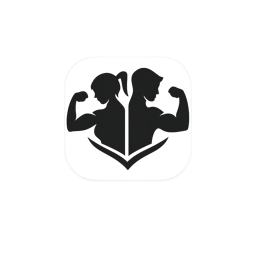
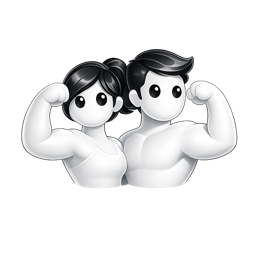
Fit the FAB scale to the new duo artwork and compress it
The replacement mark is a 1.55:1 landscape composition (measured content
866x560, filling 85% of the canvas width), where the previous one was
near-square and filled about half. At the inherited 1.3 scale it rendered
~64pt wide inside a 58pt circle, so the circular clip would have cut off
both figures' outer arms. 0.9 lands it ~44pt wide with margin.

I tried deriving this from the asset instead of hardcoding it, but
`resolveAssetSource` reports the canvas (1024² for both marks), not the
opaque content — the thing that actually differs. The constant now says so,
along with the measurements, so the next swap has something to re-measure
against rather than a bare number.

Also compresses the artwork 1.5MB -> 48KB; it renders at 58pt and was
shipping at 1024².

Not yet verified on screen: screencap is returning black frames on this
device, so the fit is calculated rather than seen.

Changed region(s): [[0.0625, 0.1875, 0.9375, 0.75], [0.875, 0.375, 0.9062, 0.4375], [0.8438, 0.3438, 0.875, 0.375]]

diff --git a/app/(tabs)/_layout.tsx b/app/(tabs)/_layout.tsx
@@ -207,27 +207,33 @@ function MuscleIcon({ size = 26, color = '#ffffff' }: { size?: number; color?: s
 /**
  * The FAB's flex mark — the illustrated `fabicon` asset.
  *
- * The artwork is a transparent-backed bicep centred in a 1024² canvas with
- * roughly a quarter of each edge as empty padding, so it is rendered larger
- * than the nominal icon box to make the arm itself read at FAB size. Falling
- * back to the vector `MuscleIcon` if the asset ever fails to resolve keeps a
- * broken/renamed file from leaving an empty FAB.
+ * Falling back to the vector `MuscleIcon` if the asset ever fails to resolve
+ * keeps a broken or renamed file from leaving an empty FAB.
  */
 const FLEX_ASSET = require('../../assets/fabicon.png') as number;
-const FLEX_ASSET_IS_REAL = (() => {
-  const meta = RNImage.resolveAssetSource(FLEX_ASSET);
-  return (meta?.width ?? 0) > 8 && (meta?.height ?? 0) > 8;
-})();
+const FLEX_ASSET_META = RNImage.resolveAssetSource(FLEX_ASSET);
+const FLEX_ASSET_IS_REAL =
+  (FLEX_ASSET_META?.width ?? 0) > 8 && (FLEX_ASSET_META?.height ?? 0) > 8;
 
 /**
- * The arm occupies only ~52% of its 1024² canvas (measured: 482×534 of
- * content, the rest transparent padding). Since `contentFit="contain"` fits
- * the whole canvas into the box, the visible arm would otherwise render at
- * barely half the intended size. Scaling by ~1.3 lands it at roughly 68% of
- * the circle — big enough to read, with enough margin that the round clip
- * never bites into the fist or elbow.
+ * How large the artwork is drawn, relative to the circle's diameter.
+ *
+ * `contentFit="contain"` fits the *whole canvas* into this box, and the mark
+ * sits inside a large transparent margin, so drawing it at exactly the circle
+ * size would render it far smaller than the circle implies.
+ *
+ * This has to be tuned to the artwork and cannot be derived at runtime:
+ * `resolveAssetSource` reports the canvas (1024²), not the opaque content, and
+ * both the old and current marks share that canvas while differing in shape.
+ * Measured for the current duo mark, whose content is 866×560 (1.55:1
+ * landscape, 85% of the canvas width) — at the previous 1.3 it rendered ~64pt
+ * wide inside a 58pt circle and the round clip cut off both outer arms. 0.9
+ * lands it ~44pt wide with margin to spare.
+ *
+ * If the artwork is swapped again, re-measure: a near-square mark can take a
+ * value above 1, a wide one cannot.
  */
-const FLEX_ART_INSET_SCALE = 1.3;
+const FLEX_ART_INSET_SCALE = 0.9;
 
 function FlexMark({ size }: { size: number }) {
   if (!FLEX_ASSET_IS_REAL) {
